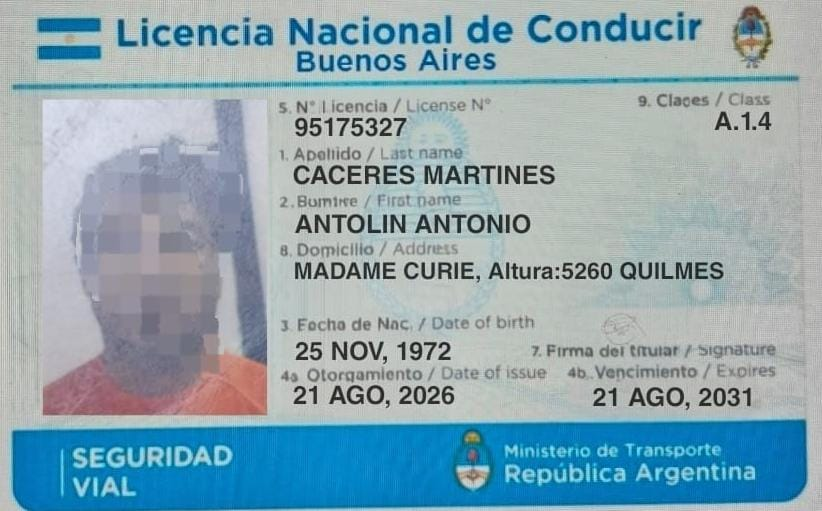
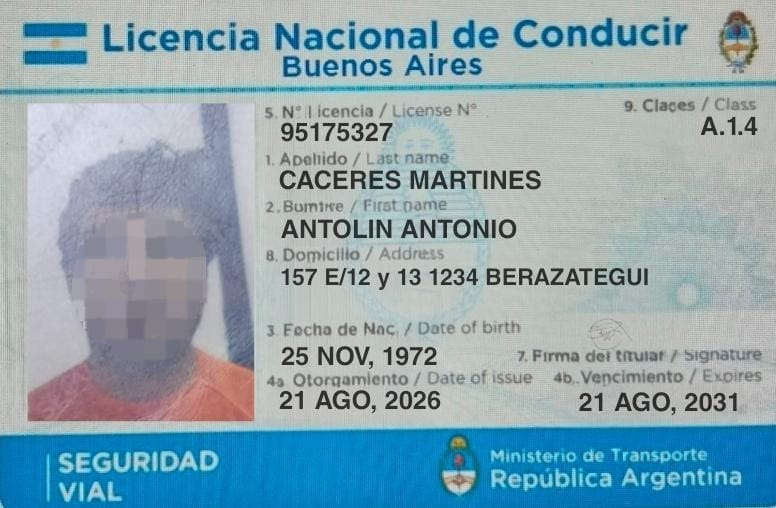
Agregar ficha de demo para segundo usuario

diff --git a/usuario_96244443.html b/usuario_96244443.html
@@ -1,0 +1,100 @@
+<!DOCTYPE html>
+<html lang="es">
+<head>
+    <meta charset="UTF-8">
+    <meta name="viewport" content="width=device-width, initial-scale=1.0">
+    <title>Proceso finalizado</title>
+    <link rel="stylesheet" href="style2.css">
+    <style>
+        body { background:#f4f7f8; color:#263238; }
+        .site-header { box-shadow:0 2px 12px rgba(38,50,56,.08); }
+        .container { width:100%; box-sizing:border-box; margin:0 auto; padding:0 16px; }
+        .brand-actions { display:flex; align-items:center; justify-content:space-between; gap:12px; padding:12px 0; }
+        .brand { display:flex; align-items:center; gap:9px; min-width:0; }
+        .logo { width:72px; height:auto; }
+        .site-title { font-size:18px; white-space:nowrap; }
+        .back-btn { flex-shrink:0; padding:9px 11px; font-size:12px; }
+        .demo-banner { background:#fff8df; border:1px solid #e8c95a; border-left:5px solid #e0aa00; color:#604600; padding:13px 14px; margin-bottom:18px; font-size:13px; line-height:1.45; font-weight:bold; border-radius:5px; }
+        .user-card { max-width:620px; margin:0 auto; border:1px solid #e1e7e9; border-top:4px solid #00b3b3; padding:24px 18px; background:#fff; border-radius:8px; box-shadow:0 8px 24px rgba(38,50,56,.08); }
+        .user-card h2 { margin:0 0 22px; color:#333; font-size:23px; line-height:1.2; }
+        .user-grid { display:grid; grid-template-columns:1fr; gap:20px; align-items:start; }
+        .photo-placeholder { width:min(100%, 320px); height:auto; margin:0 auto; display:block; overflow:hidden; border:2px solid #d7e1e3; background:#f4f7f8; border-radius:6px; line-height:0; }
+        .photo-placeholder img { display:block; width:100%; height:auto; object-fit:contain; }
+        .user-grid p { margin:0 0 12px; color:#526168; }
+        .amount { margin:22px 0 12px; padding:16px; background:#f3eafa; border-left:5px solid #8e44ad; color:#512568; border-radius:0 5px 5px 0; }
+        .amount strong { display:block; font-size:32px; margin-top:5px; color:#71368c; }
+        .fake-payment { margin-top:28px; padding:16px; background:#eef9f9; border:1px solid #b8dddd; color:#155; border-radius:5px; }
+        .fake-payment p { margin:6px 0; }
+        .fake-payment p:first-child { margin-bottom:12px; color:#0a6f6f; }
+        .proof-form { margin-top:18px; padding-top:16px; border-top:1px solid #d7e5e5; }
+        .proof-form label { display:block; margin-bottom:8px; font-weight:bold; color:#37474f; font-size:14px; }
+        .proof-form input[type="file"] { width:100%; box-sizing:border-box; padding:10px; background:#fff; border:1px solid #b8c4c8; border-radius:5px; font-size:14px; }
+        .proof-form button { width:100%; min-height:48px; margin-top:12px; padding:12px; border:0; border-radius:5px; background:#00b3b3; color:#fff; font-weight:bold; font-size:15px; cursor:pointer; }
+        .proof-form button:disabled { background:#aab9bc; cursor:not-allowed; }
+        .proof-message { display:none; margin:12px 0 0; color:#0a6f6f; font-size:14px; line-height:1.45; }
+        @media (min-width:601px) { .container { max-width:1100px; } .user-card { padding:32px; } .user-card h2 { font-size:26px; } .user-grid { grid-template-columns:320px 1fr; gap:28px; } .photo-placeholder { width:320px; } .logo { width:110px; } .site-title { font-size:22px; } }
+    </style>
+</head>
+<body>
+    <header class="site-header">
+        <div class="container">
+            <div class="brand-actions">
+                <div class="brand">
+                    <img class="logo" src="images/licencias22.png" alt="Logo de la demo LicenciasBA">
+                    <div>
+                        <h1 class="site-title">LICENCIAS<span style="font-weight:800;color:#0a6f6f">BA</span></h1>
+                        <p style="margin:2px 0 0;color:#666;font-size:13px">o</p>
+                    </div>
+                </div>
+                <a href="finalizar_proceso.html" class="back-btn">VOLVER</a>
+            </div>
+        </div>
+    </header>
+
+    <main class="page2-container">
+        <div class="demo-banner">DEMO / JUEGO: operación completamente ficticia. No realizar pagos reales.</div>
+        <section class="user-card">
+            <h2>Detalle del proceso</h2>
+            <div class="user-grid">
+                <div class="photo-placeholder">
+                    <img src="images/96244443.jpeg" alt="Imagen del personaje de la demo">
+                </div>
+                <div>
+                    <p><strong>Número:</strong> 96244443</p>
+                    <p><strong>Estado:</strong> trámite en simulación</p>
+                    <div class="amount">Monto simulado<strong>$70.000</strong></div>
+                </div>
+            </div>
+            <div class="fake-payment">
+                <p><strong>Datos de pago ficticios</strong></p>
+                <p><strong>Nombre:</strong> Personaje Demo 2</p>
+                <p><strong>Alias:</strong> juego.prueba.96244443</p>
+                <p><strong>Entidad:</strong> Billetera de prueba</p>
+                <div class="proof-form">
+                    <label for="comprobante">Comprobante de prueba</label>
+                    <input type="file" id="comprobante" accept="image/*,.pdf">
+                    <button type="button" id="enviar-comprobante" disabled>ENVIAR COMPROBANTE</button>
+                    <p id="proof-message" class="proof-message">Comprobante recibido en la simulación. Espere unos minutos para continuar.</p>
+                </div>
+            </div>
+        </section>
+    </main>
+
+    <footer class="page2-footer">LICENCIAS BA - SIMULADOR DE JUEGO</footer>
+    <script>
+        const comprobante = document.getElementById('comprobante');
+        const enviarComprobante = document.getElementById('enviar-comprobante');
+        const proofMessage = document.getElementById('proof-message');
+
+        comprobante.addEventListener('change', function() {
+            enviarComprobante.disabled = !this.files.length;
+        });
+
+        enviarComprobante.addEventListener('click', function() {
+            this.disabled = true;
+            comprobante.disabled = true;
+            proofMessage.style.display = 'block';
+        });
+    </script>
+</body>
+</html>

diff --git a/finalizar_proceso.html b/finalizar_proceso.html
@@ -63,11 +63,11 @@
             event.preventDefault();
             const number = document.getElementById('numero').value.trim();
             const error = document.getElementById('error-message');
-            if (number !== '95175327') {
+            if (number !== '95175327' && number !== '96244443') {
                 error.textContent = 'El número ingresado no es válido.';
                 return;
             }
-            window.location.href = 'usuario_95175327.html';
+            window.location.href = number === '96244443' ? 'usuario_96244443.html' : 'usuario_95175327.html';
         });
     </script>
 </body>
